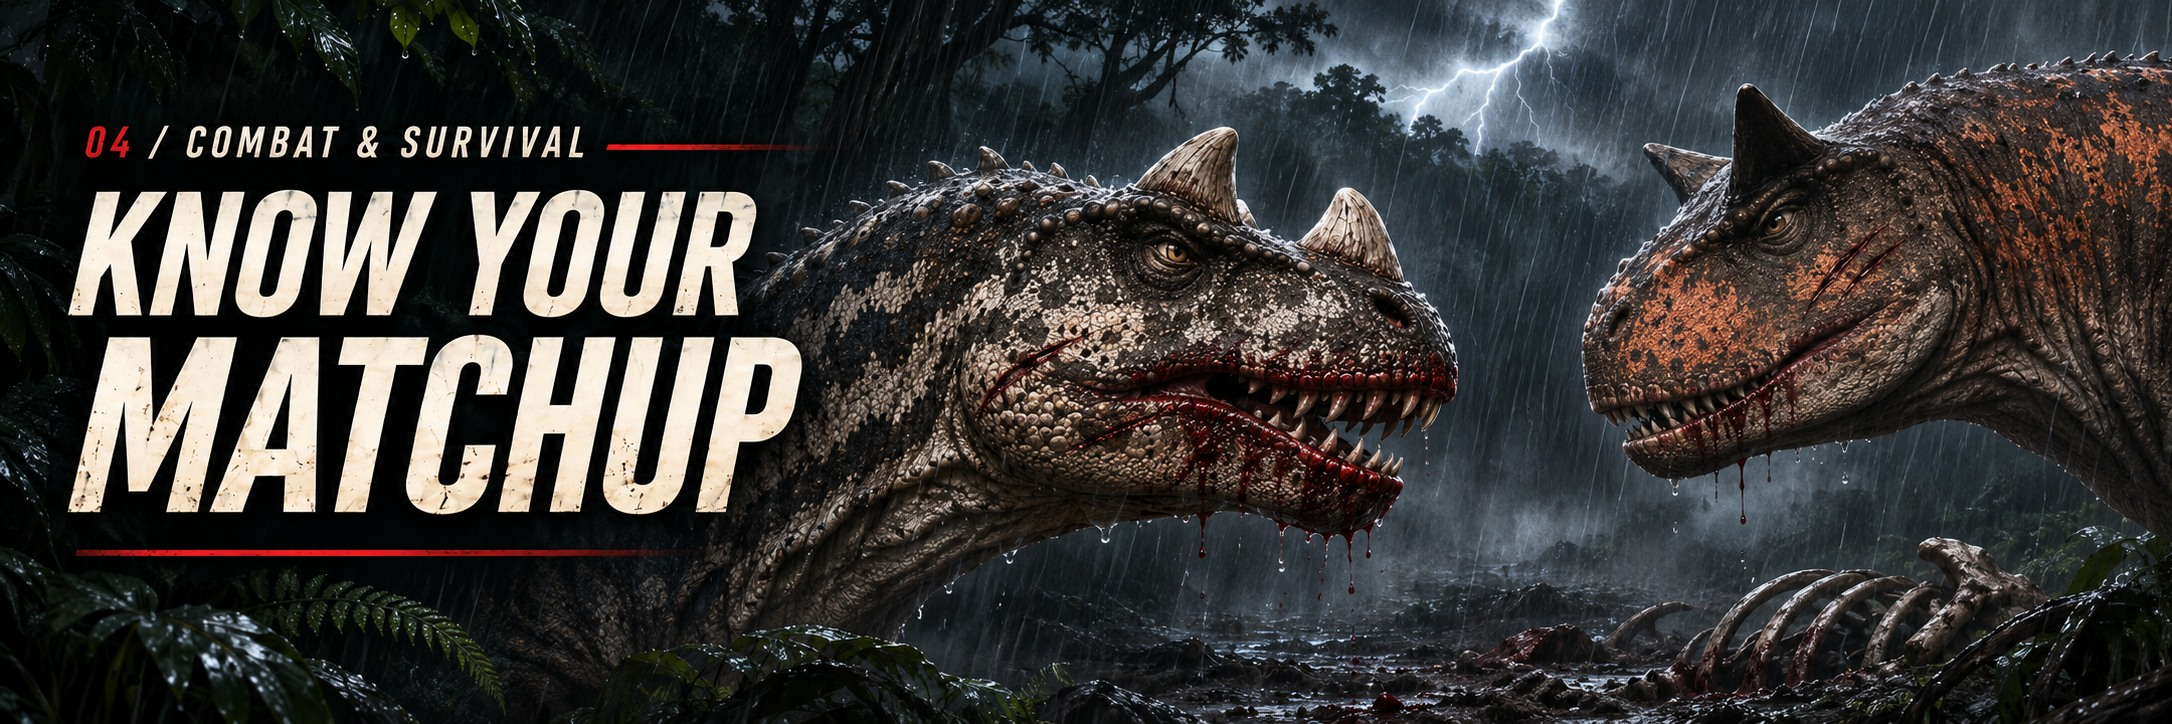
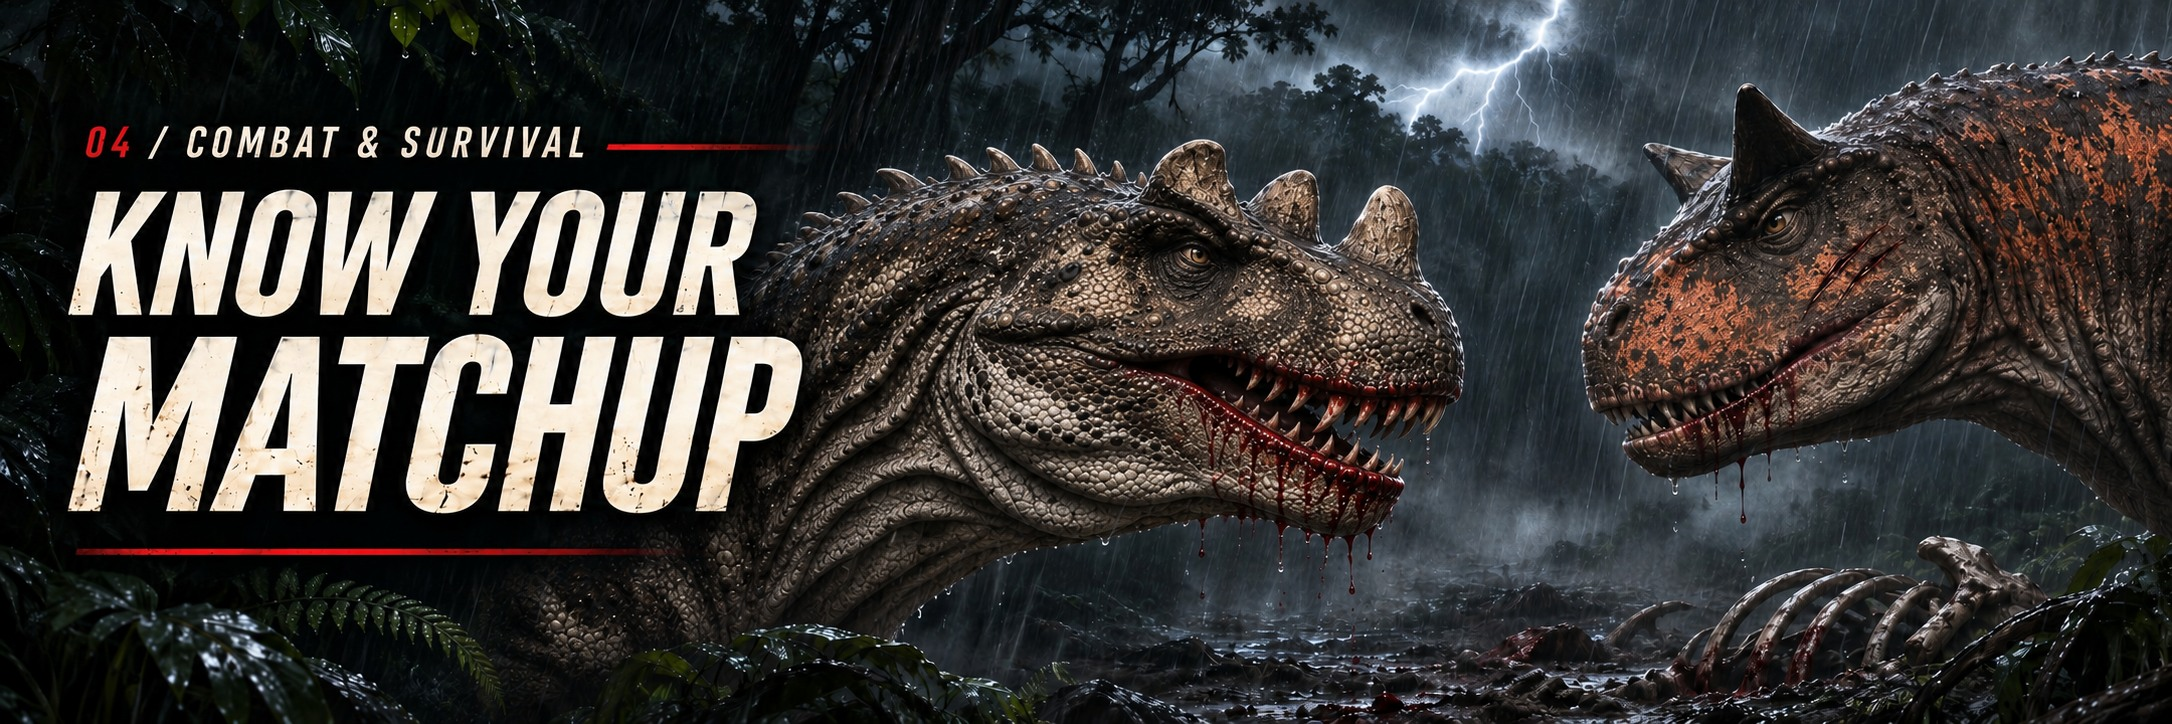
Refresh Ceratosaurus artwork and clearly labelled application previews

diff --git a/README.md b/README.md
@@ -16,14 +16,16 @@
 
 No account. Your screen readings and saved runs stay on your PC. [Privacy](PRIVACY.md)
 
+> **Artwork preview from local development build; stable 1.29.1 download retains earlier artwork.** The images below preview the Ceratosaurus art refresh. The download and release details still describe stable 1.29.1.
+
 ## 🩸 New in 1.29.1 — know what a hit can do
 
 **A small health estimate. A deeper combat reference.** This update adds an optional mini-map health indicator, Ceratosaurus charge previews, target-specific damage regions, and **Head / Body / Legs** bone-health references with Pachy fracture calculations. Attack coverage and growth scaling have been reviewed across all **22 released species**, and qualified Ceratosaurus attacks now have corrected bleed calculations. [Read the release notes →](https://github.com/roid-apps/Evrima-Trailguide/releases/tag/v1.29.1)
 
 <table>
   <tr>
-    <td width="50%"><img src="images/primal-1.29.1/health-minimap.png" alt="Stable 1.29.1 Primal mini-map with an illustrative SAMPLE health estimate in the bottom-right corner" width="100%"><br><strong>❤ Wounded-health estimate</strong><br>A passive, optional indicator with clear stale and unavailable states.</td>
-    <td width="50%"><img src="images/primal-1.29.1/fracture-growth.png" alt="Stable 1.29.1 Growth Studio regional bone-health references and Pachy headbutt estimates using sample inputs" width="100%"><br><strong>🦴 Know your bone pools</strong><br>Explore regional durability at your dinosaur’s growth and Elder branch.</td>
+    <td width="50%"><img src="images/ceratosaurus-art-refresh-2026-11/health-minimap.png" alt="Artwork preview — Primal mini-map with an illustrative SAMPLE health estimate in the bottom-right corner" width="100%"><br><strong>❤ Wounded-health estimate</strong><br>A passive, optional indicator with clear stale and unavailable states.</td>
+    <td width="50%"><img src="images/ceratosaurus-art-refresh-2026-11/fracture-growth.png" alt="Artwork preview — Growth Studio regional bone-health references and Pachy headbutt estimates using sample inputs" width="100%"><br><strong>🦴 Know your bone pools</strong><br>Explore regional durability at your dinosaur’s growth and Elder branch.</td>
   </tr>
 </table>
 
@@ -31,7 +33,7 @@ These are qualified **reference estimates**, not live HP telemetry or guaranteed
 
 ## 🦴 Primal Habitats — your dinosaur, your atmosphere
 
-![Actual stable 1.29.1 Primal navigation workspace with an isolated sample position and the map filling its viewport](images/primal-1.29.1/primal-navigation.png)
+![Artwork preview — Primal navigation workspace with an isolated sample position and the map filling its viewport](images/ceratosaurus-art-refresh-2026-11/primal-navigation.png)
 
 **Cold swamp mist. Drifting volcanic ash. Silver surf. Rust-red highlands.** Keep the four environment packs, personalized full-wrap Primal mini-map, visual **Bloodlines** tree and shareable appearance presets introduced in 1.29.0. Preview a look before applying it, and undo it when you want a change.
 
@@ -39,12 +41,12 @@ The optional **Primal · blood & bones** appearance brings cinematic survival sc
 
 <table>
   <tr>
-    <td width="50%"><img src="images/primal-1.29.1/environment-swamp-mist.png" alt="Swamp mist environment preview in Trailguide 1.29.1" width="100%"><br><strong>🌿 Swamp mist</strong><br>Cold green water, hanging roots and a shroud of mist.</td>
-    <td width="50%"><img src="images/primal-1.29.1/environment-volcanic-ash.png" alt="Volcanic ash environment preview in Trailguide 1.29.1" width="100%"><br><strong>🌋 Volcanic ash</strong><br>Charcoal mountains, drifting ash and a distant ember glow.</td>
+    <td width="50%"><img src="images/ceratosaurus-art-refresh-2026-11/environment-swamp-mist.png" alt="Swamp mist environment in the local development artwork preview" width="100%"><br><strong>🌿 Swamp mist</strong><br>Cold green water, hanging roots and a shroud of mist.</td>
+    <td width="50%"><img src="images/ceratosaurus-art-refresh-2026-11/environment-volcanic-ash.png" alt="Volcanic ash environment in the local development artwork preview" width="100%"><br><strong>🌋 Volcanic ash</strong><br>Charcoal mountains, drifting ash and a distant ember glow.</td>
   </tr>
   <tr>
-    <td width="50%"><img src="images/primal-1.29.1/environment-moonlit-coast.png" alt="Moonlit coastline environment preview in Trailguide 1.29.1" width="100%"><br><strong>🌙 Moonlit coastline</strong><br>Silver surf, blue-black cliffs and moonlit jungle.</td>
-    <td width="50%"><img src="images/primal-1.29.1/environment-dry-highlands.png" alt="Dry highlands environment preview in Trailguide 1.29.1" width="100%"><br><strong>🏔 Dry highlands</strong><br>Rust-red escarpments, dry grass and weathered bones.</td>
+    <td width="50%"><img src="images/ceratosaurus-art-refresh-2026-11/environment-moonlit-coast.png" alt="Moonlit coastline environment in the local development artwork preview" width="100%"><br><strong>🌙 Moonlit coastline</strong><br>Silver surf, blue-black cliffs and moonlit jungle.</td>
+    <td width="50%"><img src="images/ceratosaurus-art-refresh-2026-11/environment-dry-highlands.png" alt="Dry highlands environment in the local development artwork preview" width="100%"><br><strong>🏔 Dry highlands</strong><br>Rust-red escarpments, dry grass and weathered bones.</td>
   </tr>
 </table>
 
@@ -66,14 +68,18 @@ Start a **New run** after respawning or changing lives. Routes use mapped refere
 
 **Let the frame belong to your dinosaur.** The full-wrap Primal mini-map combines your chosen habitat with one of the app’s **22 species portraits**. Weathered ribs fill the footer; vines frame both sides outside the terrain. Artwork adapts to compact and expanded layouts while preserving the dinosaur’s proportions.
 
+![Artwork preview — corrected Ceratosaurus in the original full-wrap Primal mini-map frame, surrounded by vines, weathered bones and jungle scenery](images/ceratosaurus-art-refresh-2026-11/minimap-primal-fixed.png)
+
+**The original Primal frame, refreshed.** Preview the more game-faithful Ceratosaurus with the original cinematic jungle frame, or personalize the frame with a species portrait and one of the habitats below.
+
 <table>
   <tr>
-    <td width="50%"><img src="images/primal-1.29.1/minimap-swamp-mist.png" alt="Actual 1.29.1 species-personalized Primal mini-map with Swamp mist" width="100%"><br><strong>🌿 Swamp mist</strong></td>
-    <td width="50%"><img src="images/primal-1.29.1/minimap-volcanic-ash.png" alt="Actual 1.29.1 species-personalized Primal mini-map with Volcanic ash" width="100%"><br><strong>🌋 Volcanic ash</strong></td>
+    <td width="50%"><img src="images/ceratosaurus-art-refresh-2026-11/minimap-swamp-mist.png" alt="Artwork preview — species-personalized Primal mini-map with Swamp mist" width="100%"><br><strong>🌿 Swamp mist</strong></td>
+    <td width="50%"><img src="images/ceratosaurus-art-refresh-2026-11/minimap-volcanic-ash.png" alt="Artwork preview — species-personalized Primal mini-map with Volcanic ash" width="100%"><br><strong>🌋 Volcanic ash</strong></td>
   </tr>
   <tr>
-    <td width="50%"><img src="images/primal-1.29.1/minimap-moonlit-coast.png" alt="Actual 1.29.1 species-personalized Primal mini-map with Moonlit coastline" width="100%"><br><strong>🌙 Moonlit coastline</strong></td>
-    <td width="50%"><img src="images/primal-1.29.1/minimap-dry-highlands.png" alt="Actual 1.29.1 species-personalized Primal mini-map with Dry highlands" width="100%"><br><strong>🏔 Dry highlands</strong></td>
+    <td width="50%"><img src="images/ceratosaurus-art-refresh-2026-11/minimap-moonlit-coast.png" alt="Artwork preview — species-personalized Primal mini-map with Moonlit coastline" width="100%"><br><strong>🌙 Moonlit coastline</strong></td>
+    <td width="50%"><img src="images/ceratosaurus-art-refresh-2026-11/minimap-dry-highlands.png" alt="Artwork preview — species-personalized Primal mini-map with Dry highlands" width="100%"><br><strong>🏔 Dry highlands</strong></td>
   </tr>
 </table>
 
@@ -89,7 +95,7 @@ Choose **Navigate → Map settings → Frame artwork → Primal · blood & bones
 <details>
 <summary><strong>🦴 Explore the larger Primal mini-map</strong></summary>
 
-![Actual expanded 1.29.1 Primal mini-map with species artwork, environment scenery and visible exploration controls](images/primal-1.29.1/minimap-expanded.png)
+![Artwork preview — expanded Primal mini-map with species artwork, environment scenery and visible exploration controls](images/ceratosaurus-art-refresh-2026-11/minimap-expanded.png)
 
 Open the expanded view for destination, layer and opacity controls. **Ghost HUD** hides the frame and controls for a transparent, click-through map-only view. High contrast hides decorative artwork too, including when the Windows setting changes while the mini-map is open.
 
@@ -103,7 +109,7 @@ The artwork receives no mouse or keyboard input. Changing an environment or port
 
 ![Every life leaves a trail — bones and dinosaur footprints disappearing into violet fog](images/field-guide-2026-11/section-journal.jpg)
 
-![Actual 1.29.1 Bloodlines tree showing three sample generations, recorded Entomb connections and mutation details](images/primal-1.29.1/lineage-tree.png)
+![Artwork preview — Bloodlines tree showing three sample generations, recorded Entomb connections and mutation details](images/ceratosaurus-art-refresh-2026-11/lineage-tree.png)
 
 Open **Lineage & mutations → Explore lineage tree** to see recorded lives, generations and mutations together. Select a life to inspect its mutation records or open its archived route in replay. Compact cards keep the chain visible, with details beside it on larger windows.
 
@@ -111,7 +117,7 @@ Connections show **recorded Entomb transitions**. Missing generations, ambiguous
 
 ## 🎨 Preview it. Share it. Make it yours.
 
-![Actual 1.29.1 Appearance presets window with scenery and personalized mini-map previews](images/primal-1.29.1/appearance-preview.png)
+![Artwork preview — Appearance presets window with scenery and personalized mini-map previews](images/ceratosaurus-art-refresh-2026-11/appearance-preview.png)
 
 Open **Navigate → Tools → Appearance → Appearance presets**. Try a built-in environment or import a friend’s look, inspect the preview, then choose **Apply preview**. Closing without Apply leaves your saved appearance alone. **Undo last apply** restores the previous look while preserving newer navigation progress.
 
@@ -123,13 +129,13 @@ Open previews follow species and accessibility changes. Camera movement and rout
 
 ![Built around your dinosaur — Ceratosaurus and Stegosaurus in an ochre-lit landscape](images/field-guide-2026-11/section-dinosaurs.jpg)
 
-![Actual stable 1.29.1 Primal Growth Studio with growth silhouettes, reference stages and statistics](images/primal-1.29.1/primal-growth.png)
+![Artwork preview — Primal Growth Studio with growth silhouettes, reference stages and statistics](images/ceratosaurus-art-refresh-2026-11/primal-growth.png)
 
 **A recognizable face for every entry.** Explore the app’s 22 species portraits, choose your dinosaur and follow its growth. **Growth Studio** brings reference stages, silhouettes and stats together; **Lineage & mutations** keeps selected mutations and recorded generations with the run.
 
 **Choose a move and a target.** Compare damage to the head, body and tail, then expand neck, limb and other species-specific regions. Supported attacks follow growth and Prime/Frail scaling. Ceratosaurus has a **0–4 second effective mouth-open charge preview**; full charge is **2.3× ordinary bite** before target and scenario adjustments. Separate contact events, pounce cycles and conditional abilities retain their own rules.
 
-![Stable 1.29.1 Ceratosaurus charge preview and target-region damage references with sample inputs](images/primal-1.29.1/charged-bite-growth.png)
+![Artwork preview — Ceratosaurus charge preview and target-region damage references with sample inputs](images/ceratosaurus-art-refresh-2026-11/charged-bite-growth.png)
 
 **🦴 How many Pachy headbutts can your dinosaur take?** Open the **Bone health reference** in Growth Studio. Set the defender’s species, growth and Elder branch, then adjust the Pachy attacker independently. Head, Body and Legs show maximum and remaining bone pools alongside tap and held-headbutt estimates. Viewing Pachy also lets you choose a different target. Existing regional damage, fracture resistance, relevant mutations and attacker injury can change the result.
 
@@ -141,20 +147,20 @@ The portraits are AI-assisted illustrations based on Evrima game-model reference
 
 ![Know your matchup — Ceratosaurus and Carnotaurus beneath grey storm clouds](images/field-guide-2026-11/section-combat.jpg)
 
-![Actual stable 1.29.1 Primal combat workspace with dinosaur comparisons, silhouettes, direct hits and bleed estimates](images/primal-1.29.1/primal-combat.png)
+![Artwork preview — Primal combat workspace with dinosaur comparisons, silhouettes, direct hits and bleed estimates](images/ceratosaurus-art-refresh-2026-11/primal-combat.png)
 
 **Choose both dinosaurs. Pick their moves. Adjust growth and hit area.** Watch reference stats and event estimates change together, with separate direct-damage and bleed results. Region multipliers belong to the **target dinosaur**, and attacks that bypass ordinary hit regions keep their separate rules. The attack calculator includes compact Pachy fracture cards tied to the selected stages and mutations.
 
-![Stable 1.29.1 Pachy fracture calculator with sample attacker and victim settings](images/primal-1.29.1/pachy-fracture-calculator.png)
+![Artwork preview — Pachy fracture calculator with sample attacker and victim settings](images/ceratosaurus-art-refresh-2026-11/pachy-fracture-calculator.png)
 
 **🩸 Bleed follows the selected scenario.** Qualified Ceratosaurus bite, directional bite and charged bite use final direct damage, target defense and the applicable bleed thresholds. Current-growth blood capacity is the default; the older chart pool is an explicit historical comparison. Choose land movement or a swimming speed band, inspect resistance, and use a finite wound duration with the post-hit vitals helper.
 
-![Stable 1.29.1 Ceratosaurus direct-damage and bleed-out references with sample scenario inputs](images/primal-1.29.1/bleed-calculator.png)
+![Artwork preview — Ceratosaurus direct-damage and bleed-out references with sample scenario inputs](images/ceratosaurus-art-refresh-2026-11/bleed-calculator.png)
 
 <details>
 <summary><strong>🩸 Movement, wound duration and calculation limits</strong></summary>
 
-![Stable 1.29.1 bleed movement references with explicit swimming-speed scenarios](images/primal-1.29.1/bleed-movement.png)
+![Artwork preview — bleed movement references with explicit swimming-speed scenarios](images/ceratosaurus-art-refresh-2026-11/bleed-movement.png)
 
 Mixed land movement uses a weighted loss rate. Water has separate slow, fast and above-fast speed bands; land resting protection is not applied underwater. Wounded Ceratosaurus resistance, Beipiaosaurus water resistance, wound expiry and lethal-direct-hit handling are included where qualified.
 
@@ -181,13 +187,13 @@ Seven workspaces keep the next decision within reach:
 <details>
 <summary><strong>📖 Explore route replay</strong></summary>
 
-![Actual stable 1.29.1 Primal History and replay workspace with an isolated sample archive](images/primal-1.29.1/primal-history-replay.png)
+![Artwork preview — Primal History and replay workspace with an isolated sample archive](images/ceratosaurus-art-refresh-2026-11/primal-history-replay.png)
 
 Selecting a saved life frames its route once. Playback and later resizing preserve your chosen camera view.
 
 </details>
 
-![Actual stable 1.29.1 Primal How to use workspace with first-session steps and searchable help topics](images/primal-1.29.1/primal-how-to-use.png)
+![Artwork preview — Primal How to use workspace with first-session steps and searchable help topics](images/ceratosaurus-art-refresh-2026-11/primal-how-to-use.png)
 
 **Keep the atmosphere—or turn it down.** Adjust scenery strength, panel opacity and decorative edges in **Navigate → Tools → Appearance**, or switch the artwork off. Existing users keep their selected appearance. Profile backups give your settings and recorded lives a recovery copy.
 
@@ -250,7 +256,7 @@ Made by **Roid** · Discord: **r_o_i_d** · [Email](mailto:b_greenspan@yahoo.com
 <details>
 <summary><strong>About the imagery and project</strong></summary>
 
-The application screenshots and previews show actual stable 1.29.1 controls with Primal scenery. All use isolated sample profiles and recorded/sample positions; they are not live gameplay captures or proof of tracking during the capture session. The health demonstration is explicitly marked **SAMPLE** and uses illustrative evidence.
+The application screenshots show an artwork preview from the local development build with Primal scenery. The published stable 1.29.1 installer retains the earlier artwork; these previews do not announce a new stable release. All use isolated sample profiles and recorded/sample positions; they are not live gameplay captures or proof of tracking during the capture session. The health demonstration is explicitly marked **SAMPLE** and uses illustrative evidence.
 
 Combat, fracture and bleed references include an offline review of installed client build **24664737**. The audit is tied to that reference build, not proof of every current live-server version or interaction. Stable 1.29.1 passed **2,489 automated tests with zero failures or skips**; see the release validation report for the tested scope and remaining limits.
 
